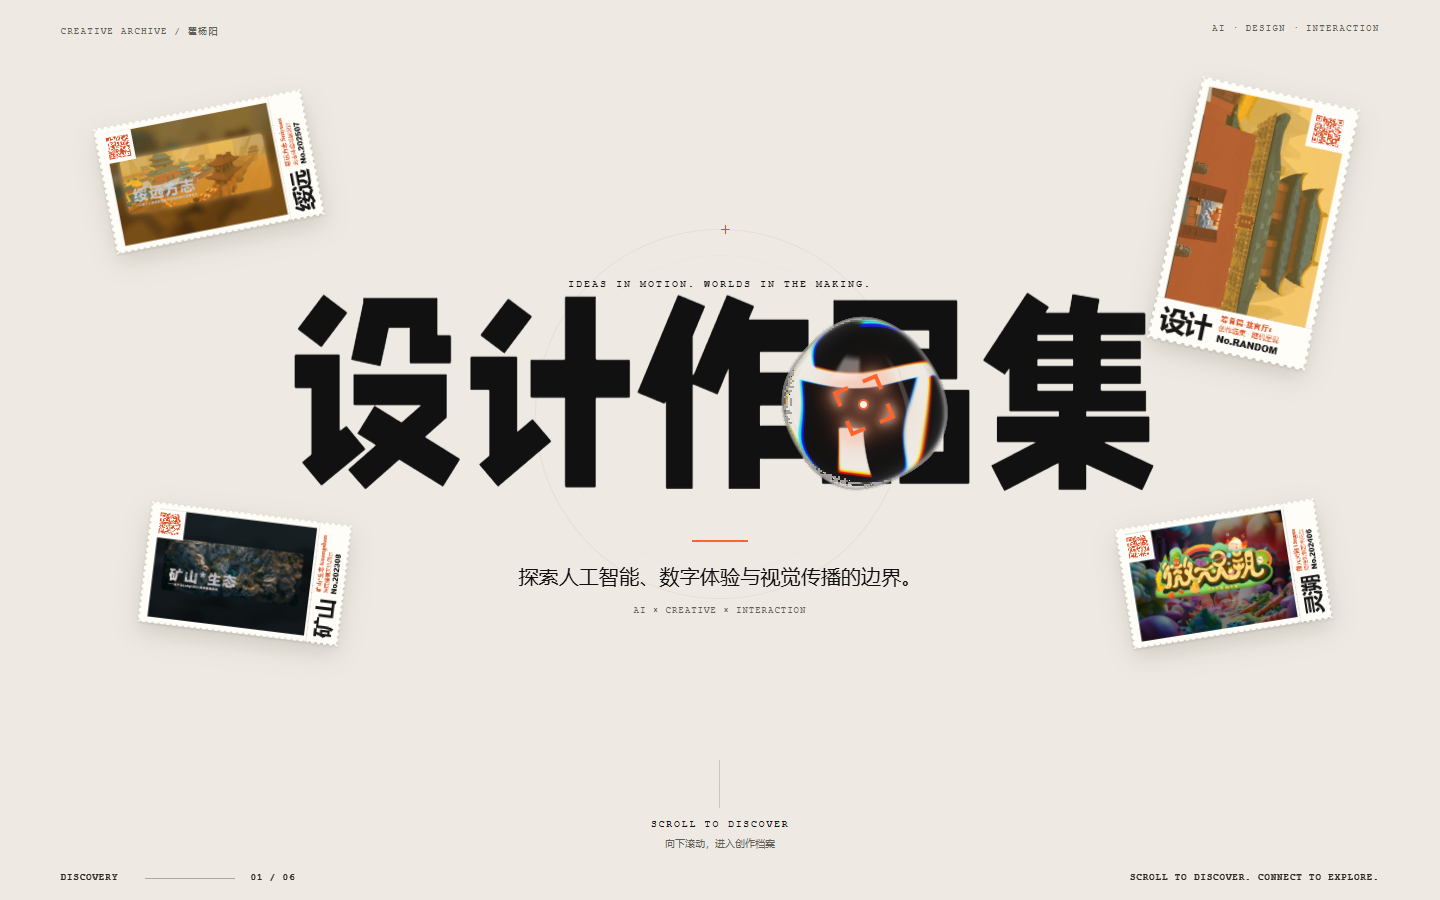
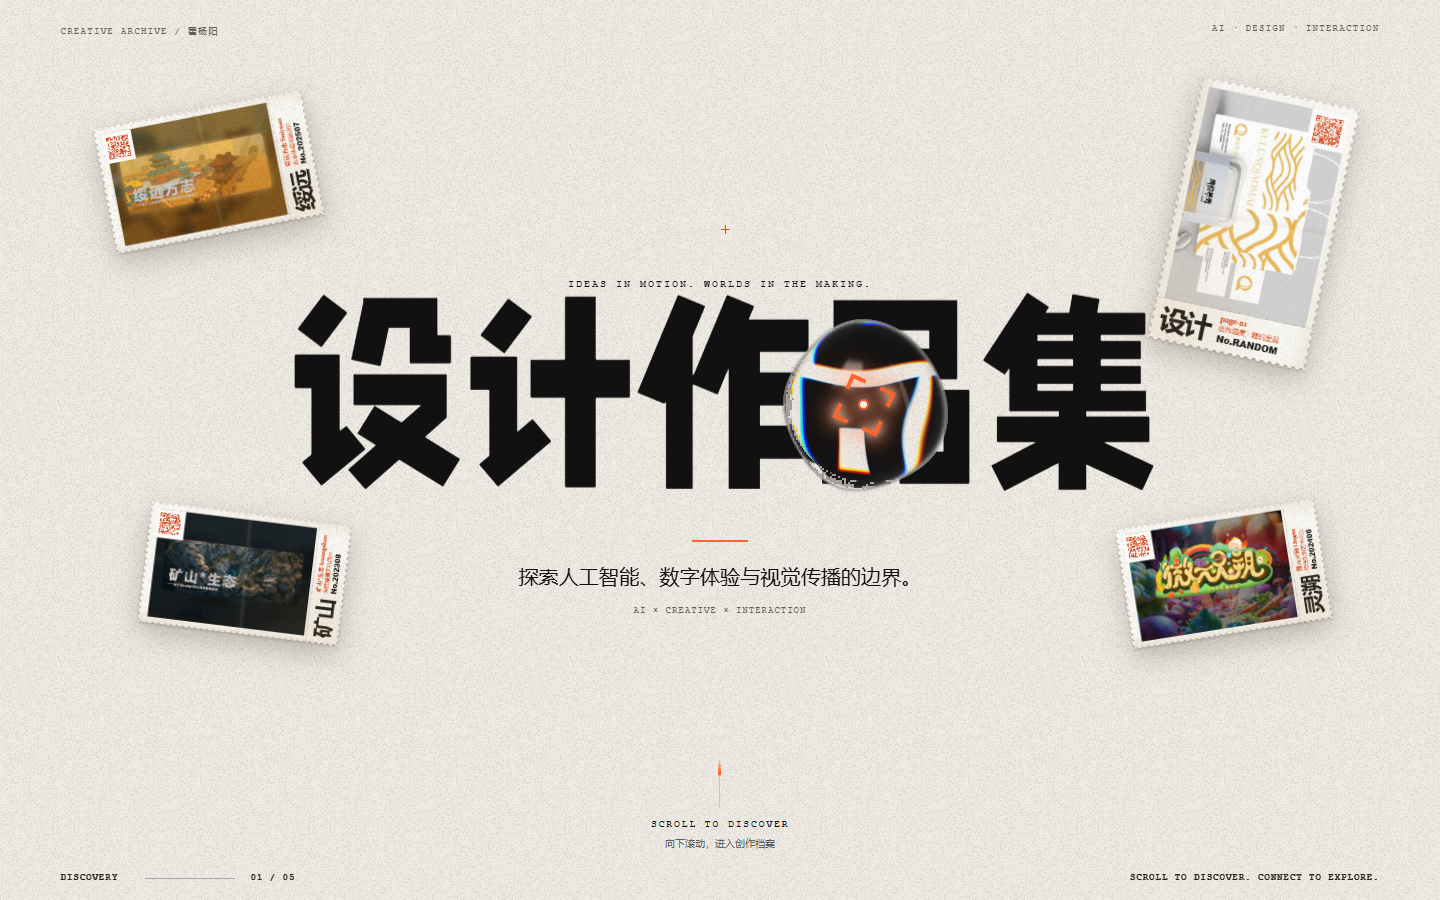
小票-玻璃-联系
小票提亮纸底、加深投影，保留做旧质感，提高对比度。
手机液态玻璃缩小并减弱折射，“设计作品集”更易辨认。
联系板块整体居中，四张卡片加入对应线条图标、边框和立体阴影。

diff --git a/New/css/sections.css b/New/css/sections.css
@@ -25,10 +25,12 @@
 .contact h2.contact-tech-heading > span { color: #303d35; }
 .contact-tech-line { display: block; height: clamp(70px, 12vw, 200px); }
 .contact-tech-fallback { display: flex; align-items: center; height: 100%; padding-inline: 5%; font-size: clamp(30px, 8vw, 160px); white-space: nowrap; }
-.contact-row { margin: 55px 0 60px; display: flex; align-items: flex-end; justify-content: space-between; gap: 48px; }
+.contact > .eyebrow, .contact-tech-heading { text-align: center; }
+.contact-tech-fallback { justify-content: center; }
+.contact-row { margin: 55px auto 60px; display: flex; flex-direction: column; align-items: center; gap: 24px; max-width: 1080px; }
 .contact-row p { font-size: 20px; line-height: 1.8; }
 .contact-row p > span { font-size: 12px; }
-.contact-details { flex: 1; max-width: 940px; min-width: 0; }
+.contact-details { width: 100%; min-width: 0; text-align: center; }
 .contact-methods { display: grid; grid-template-columns: repeat(2, minmax(0, 1fr)); gap: 14px; list-style: none; padding: 0; margin: 24px 0 0; }
 .contact-methods a, .contact-methods button { display: grid; grid-template-columns: minmax(0, 1fr) 40px; grid-template-rows: auto auto; align-items: center; gap: 16px 12px; width: 100%; height: 100%; min-height: 132px; padding: 22px; border: 1px solid #d5dccf; border-radius: 16px; background: #e5ebdf; color: #253d30; text-align: left; font: inherit; cursor: pointer; transition: background .2s ease, border-color .2s ease; }
 .contact-methods li:nth-child(2) > a, .contact-methods li:nth-child(3) > button { background: #fffdf7; }
@@ -40,6 +42,24 @@
 .contact-methods button:hover svg { transform: translateY(-2px); }
 .contact-copy-status { display: block; min-height: 20px; margin-top: 8px; font-size: 12px; }
 .contact-methods button:focus-visible { outline: 2px solid var(--ink); outline-offset: 4px; }
+.contact-methods a, .contact-methods button {
+  position: relative; min-height: 190px; padding: 26px;
+  grid-template-rows: 70px auto; border-radius: 20px;
+  border-color: #b9c6b2;
+  box-shadow: inset 0 1px 0 #ffffffb3, 0 4px 0 #bcc6b466, 0 12px 24px #34432e12;
+  transition: transform .22s ease, box-shadow .22s ease, background .22s ease;
+}
+.contact-methods a:hover, .contact-methods button:hover {
+  transform: translateY(-4px);
+  box-shadow: inset 0 1px 0 #ffffffb3, 0 4px 0 #bcc6b466, 0 18px 30px #34432e22;
+}
+.contact-methods svg:not(.contact-artwork) { grid-row: 2; }
+.contact-methods svg.contact-artwork {
+  position: absolute; right: 24px; top: 14px; width: 80px; height: 80px;
+  padding: 0; border-radius: 0; background: none; color: #526d54;
+  transform: rotate(-7deg); pointer-events: none;
+}
+.contact-methods li:nth-child(even) svg.contact-artwork { transform: rotate(7deg); }
 @media (prefers-reduced-motion: reduce) { .contact-methods svg { transition: none; } }
 .contact-link { display: flex; align-items: center; justify-content: space-between; gap: 30px; flex-shrink: 0; border-bottom: 1px solid #9aa697; padding-bottom: 15px; margin-bottom: 28px; font-size: 14px; }
 .contact-link span { font-size: 42px; }
@@ -54,7 +74,7 @@
 @media (min-width: 1921px) { main { max-width: 2200px; margin-inline: auto; } }
 @media (max-width: 1199px) {
   .contact-row { display: block; }
-  .contact-link { width: fit-content; margin-top: 26px; }
+  .contact-link { width: fit-content; margin: 26px auto 0; }
   .works-footer { grid-template-columns: 1fr 1fr; } .works-footer .text-link { justify-self: start; }
 }
 @media (max-width: 767px) {
@@ -70,7 +90,7 @@
   .contact h2 { font-size: clamp(38px, 9.9vw, 74px); }
   .contact-row { display: block; margin-block: 40px 45px; }
   .contact-methods { grid-template-columns: 1fr; gap: 10px; }
-  .contact-methods a, .contact-methods button { min-height: 112px; padding: 18px 20px; gap: 12px; }
+  .contact-methods a, .contact-methods button { min-height: 168px; padding: 18px 20px; gap: 12px; }
   .contact-link { margin-top: 30px; }
   .contact footer { flex-wrap: wrap; font-size: 9px; gap: 8px; }
 }

diff --git a/New/js/components/Contact.tsx b/New/js/components/Contact.tsx
@@ -8,6 +8,15 @@ function ContactIcon({ copy = false }: { copy?: boolean }) {
   </svg>;
 }
 
+function ContactArtwork({ kind }: { kind: 'mail' | 'phone' | 'wechat' | 'qq' }) {
+  return <svg className="contact-artwork" viewBox="0 0 80 80" fill="none" stroke="currentColor" strokeWidth="2.4" strokeLinecap="round" strokeLinejoin="round" aria-hidden="true">
+    {kind === 'mail' && <><rect x="12" y="23" width="56" height="39" rx="7"/><path d="m14 26 26 20 26-20M13 59l18-19m36 19L49 40M24 14h32"/></>}
+    {kind === 'phone' && <><rect x="23" y="9" width="34" height="62" rx="9"/><path d="M34 16h12M36 63h8M64 24q10 16 0 32M16 29q-6 11 0 22"/><circle cx="40" cy="39" r="10"/></>}
+    {kind === 'wechat' && <><path d="M44 47c-4 3-9 4-14 4l-11 7 2-11C5 35 15 17 33 17c15 0 25 11 22 23"/><path d="M60 65l-9-5c-15 2-24-8-20-18s20-14 30-6 10 19-2 24z"/><circle cx="26" cy="32" r="2"/><circle cx="40" cy="32" r="2"/><circle cx="44" cy="46" r="1.5"/><circle cx="57" cy="46" r="1.5"/></>}
+    {kind === 'qq' && <><path d="M24 37c-3-29 35-29 32 0l7 16-8-3c7 18-37 18-30 0l-8 3z"/><path d="M24 38q16 9 32 0M27 44l-3 10M30 66l-10 4m30-4 10 4"/><ellipse cx="40" cy="31" rx="7" ry="3"/><path d="M33 23v2m14-2v2"/></>}
+  </svg>;
+}
+
 export function Contact() {
   const [showExperience, setShowExperience] = useState(false);
   const [copyStatus, setCopyStatus] = useState('');
@@ -25,10 +34,10 @@ export function Contact() {
       <div className="contact-details">
         <p>有想法，欢迎聊聊。</p>
         <ul className="contact-methods" aria-label="联系方式">
-          <li><a href="mailto:zyg203320@163.com" aria-label="发送邮件至 zyg203320@163.com"><span className="contact-method-label">MAIL</span><span className="contact-method-value">zyg203320@163.com</span><ContactIcon /></a></li>
-          <li><a href="tel:+8615248120655" aria-label="拨打电话 15248120655"><span className="contact-method-label">TEL</span><span className="contact-method-value">15248120655</span><ContactIcon /></a></li>
-          <li><button type="button" onClick={copyWechat} aria-label="复制微信号 YoungSlikera"><span className="contact-method-label">WX</span><span className="contact-method-value">YoungSlikera</span><ContactIcon copy /></button></li>
-          <li><a href="https://wpa.qq.com/msgrd?v=3&uin=3187134482&site=qq&menu=yes" target="_blank" rel="noopener noreferrer" aria-label="打开 QQ 会话 3187134482" title="打开 QQ 会话（需安装 QQ）"><span className="contact-method-label">QQ</span><span className="contact-method-value">3187134482</span><ContactIcon /></a></li>
+          <li><a href="mailto:zyg203320@163.com" aria-label="发送邮件至 zyg203320@163.com"><ContactArtwork kind="mail" /><span className="contact-method-label">MAIL</span><span className="contact-method-value">zyg203320@163.com</span><ContactIcon /></a></li>
+          <li><a href="tel:+8615248120655" aria-label="拨打电话 15248120655"><ContactArtwork kind="phone" /><span className="contact-method-label">TEL</span><span className="contact-method-value">15248120655</span><ContactIcon /></a></li>
+          <li><button type="button" onClick={copyWechat} aria-label="复制微信号 YoungSlikera"><ContactArtwork kind="wechat" /><span className="contact-method-label">WX</span><span className="contact-method-value">YoungSlikera</span><ContactIcon copy /></button></li>
+          <li><a href="https://wpa.qq.com/msgrd?v=3&uin=3187134482&site=qq&menu=yes" target="_blank" rel="noopener noreferrer" aria-label="打开 QQ 会话 3187134482" title="打开 QQ 会话（需安装 QQ）"><ContactArtwork kind="qq" /><span className="contact-method-label">QQ</span><span className="contact-method-value">3187134482</span><ContactIcon /></a></li>
         </ul>
         <span className="contact-copy-status" role="status">{copyStatus}</span>
       </div>

diff --git a/New/js/components/GlassTitle.jsx b/New/js/components/GlassTitle.jsx
@@ -5,8 +5,9 @@ import '../../css/glass-title.css';
 export function GlassTitle() {
   const title = useRef(null);
   const [fontSize, setFontSize] = useState(100);
+  const [compact, setCompact] = useState(false);
   useEffect(() => {
-    const update = () => setFontSize(parseFloat(getComputedStyle(title.current).fontSize));
+    const update = () => { setFontSize(parseFloat(getComputedStyle(title.current).fontSize)); setCompact(window.innerWidth <= 600); };
     const observer = new ResizeObserver(update);
     observer.observe(title.current); update();
     return () => observer.disconnect();
@@ -27,9 +28,9 @@ export function GlassTitle() {
     <h1 ref={title} id="hero-title">设计作品集</h1>
     {fontReady && !reduced && <div className="hero-glass-title__effect" aria-hidden="true"><Suspense fallback={null}>
       <FluidGlass text="设计作品集" fontFamily="PortfolioTitle, Microsoft YaHei, sans-serif"
-        fontWeight={400} fontSize={fontSize} textColor="#111111" shape="blob" size={190}
-        interaction="follow" refraction={.85} dispersion={.85} reflection={.75}
-        shadow={0} elevation={.25} wobble={.4} morphOnClick={false}
+        fontWeight={400} fontSize={fontSize} textColor="#111111" shape="blob" size={compact ? 68 : 190}
+        interaction="follow" refraction={compact ? .25 : .85} dispersion={compact ? .18 : .85} reflection={compact ? .3 : .75}
+        shadow={0} elevation={.25} wobble={compact ? .15 : .4} morphOnClick={false}
         maxDevicePixelRatio={1} intro={false} />
     </Suspense></div>}
   </div>;

diff --git a/New/js/components/ContactTitle.tsx b/New/js/components/ContactTitle.tsx
@@ -21,7 +21,7 @@ export function ContactTitle() {
   return <h2 ref={heading} className="contact-tech-heading" aria-label={lines.join(' ')}>
     {lines.map(text => <span className="contact-tech-line" key={text} aria-hidden="true">
       {near && !reduced ? <Suspense fallback={<span className="contact-tech-fallback">{text}</span>}>
-        <TechText text={text} fontWeight={700} fontSize={160} letterSpacing={-.07} align="left"
+        <TechText text={text} fontWeight={700} fontSize={160} letterSpacing={-.07} align="center"
           color="#303d35" accentColor="#d86a42" reveal="letter" dashLength={2} dashGap={2}
           specks={24} intro="assemble" introDuration={2.2} clickKick guides={false} strokeWidth={1} />
       </Suspense> : <span className="contact-tech-fallback">{text}</span>}

diff --git a/New/css/background-grain.css b/New/css/background-grain.css
@@ -17,10 +17,11 @@ html body :is(
 /* The grain follows each clipped paper piece, including the detached stub.
    A transparent print patina adds wear without replacing the source artwork. */
 .artwork-ticket .tear-ticket__paper {
-  background-color: #f5eddc;
+  background-color: #fffdf7;
   background-image: url('../assets/background-grain.png');
   background-size: 180px 180px;
 }
+.artwork-ticket { filter: drop-shadow(0 1px 1px #493d3060) drop-shadow(0 10px 14px #33271945); }
 .artwork-ticket .tear-ticket__paper::after {
   content: '';
   position: absolute;
